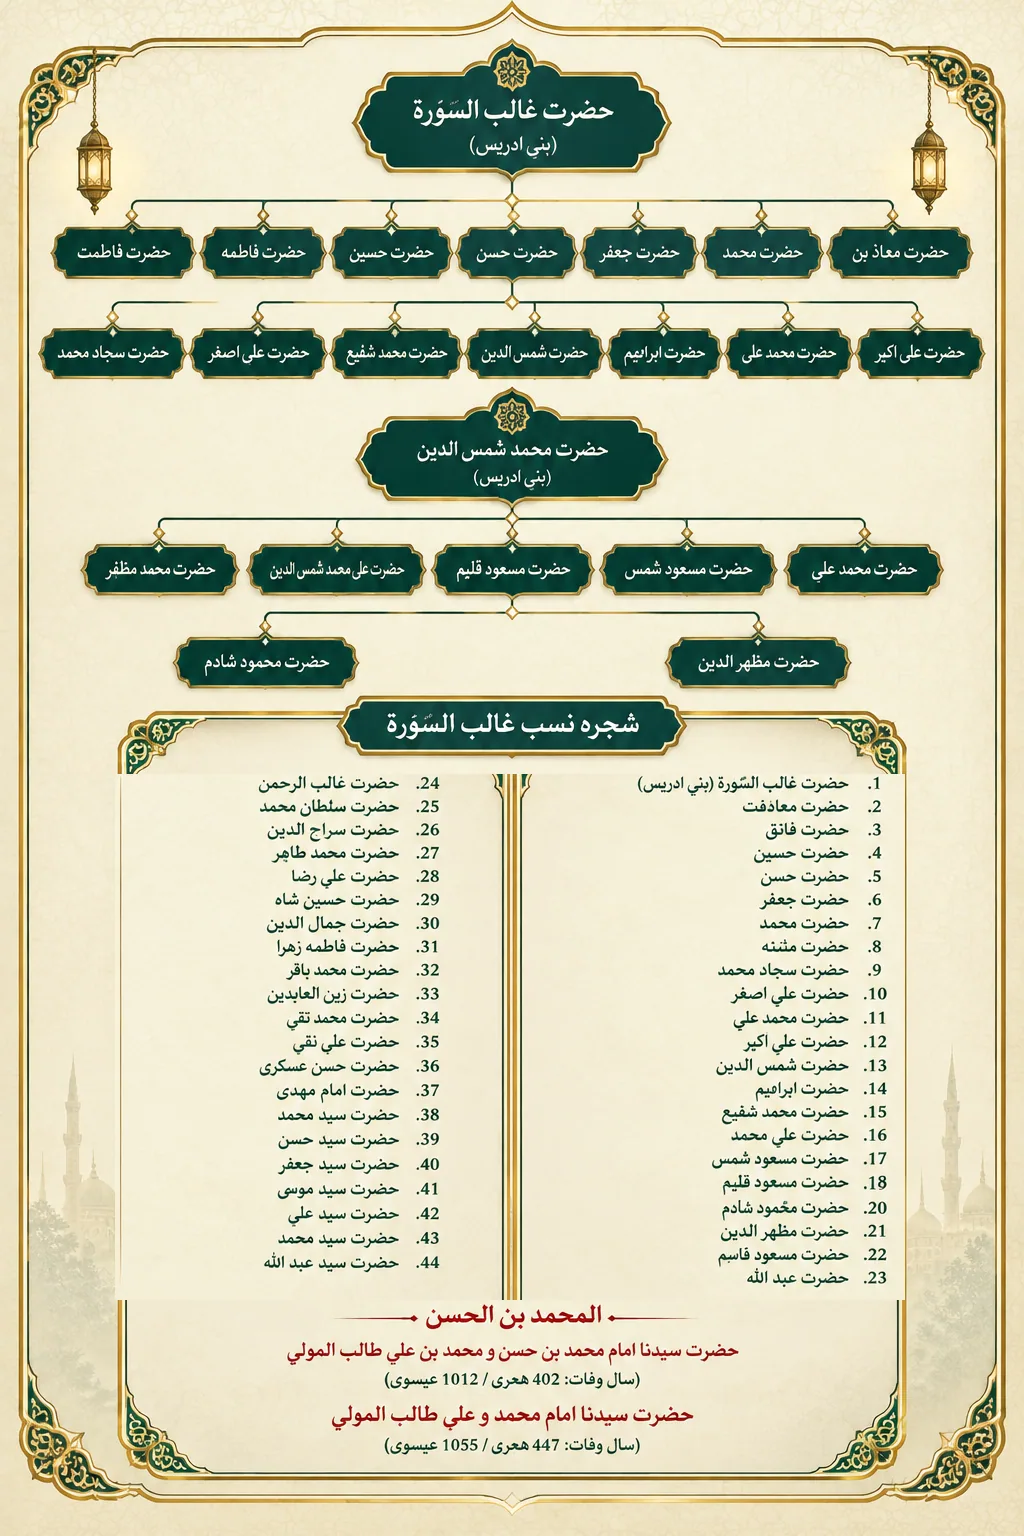
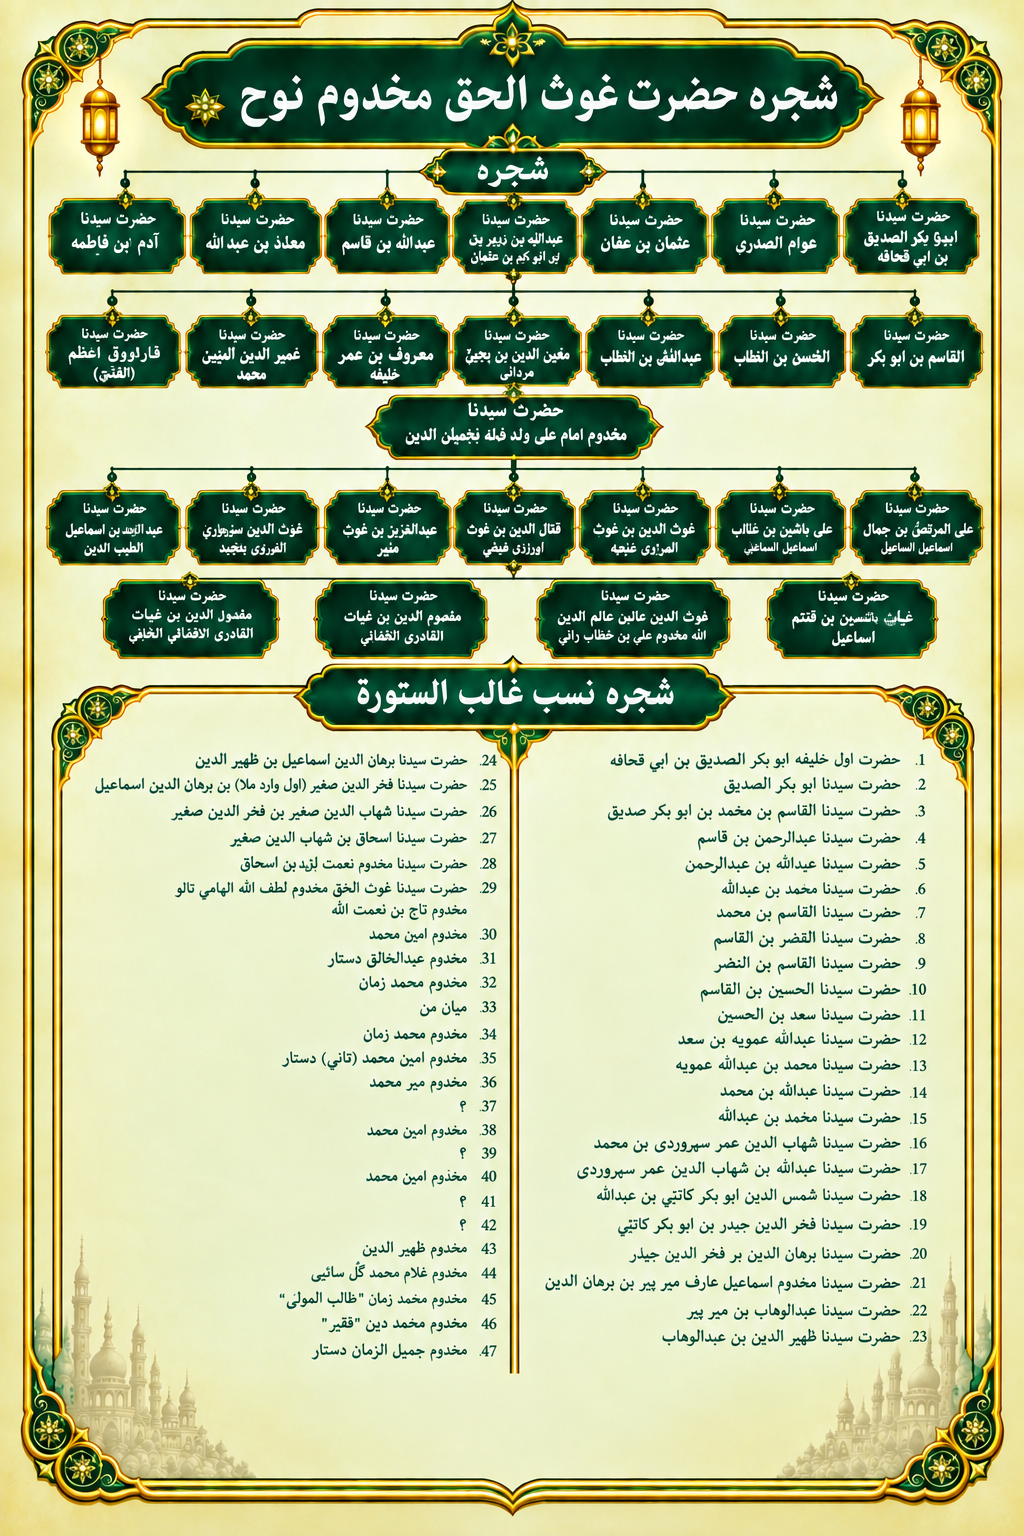
dynamic

diff --git a/src/app/shajra/page.tsx b/src/app/shajra/page.tsx
@@ -11,14 +11,17 @@ export default function ShajraPage() {
   const { language } = useLanguage();
   const isEn = language === "en";
 
-  const heroTitle = isEn ? "Lineage of Hazrat" : "عزيز جي لائين";
-  const heroSubtitle = isEn
-    ? "Hazrat Makhdoom Sarwar Nooh's Genealogy"
-    : "غوثُ الحق حضرت مخدوم سرور نوحؒ جي نسب نامي";
-  const heroAlt = isEn
-    ? "Lineage of Hazrat Makhdoom Sarwar Nooh"
-    : "عزيز جي لائين - غوثُ الحق حضرت مخدوم سرور نوحؒ جي نسب نامي";
+const heroTitle = isEn
+  ? "Lineage of Hazrat"
+  : "حضرت جو شجرو نسب";
 
+const heroSubtitle = isEn
+  ? "Hazrat Makhdoom Sarwar Nooh's Genealogy"
+  : "غوثُ الحق حضرت مخدوم سرور نوحؒ جو شجرو نسب";
+
+const heroAlt = isEn
+  ? "Lineage of Hazrat Makhdoom Sarwar Nooh"
+  : "غوثُ الحق حضرت مخدوم سرور نوحؒ جو شجرو نسب";
   return (
     <div className="min-h-screen bg-[#f7f5ef] text-[#0d2a28]">
       <Nav />
